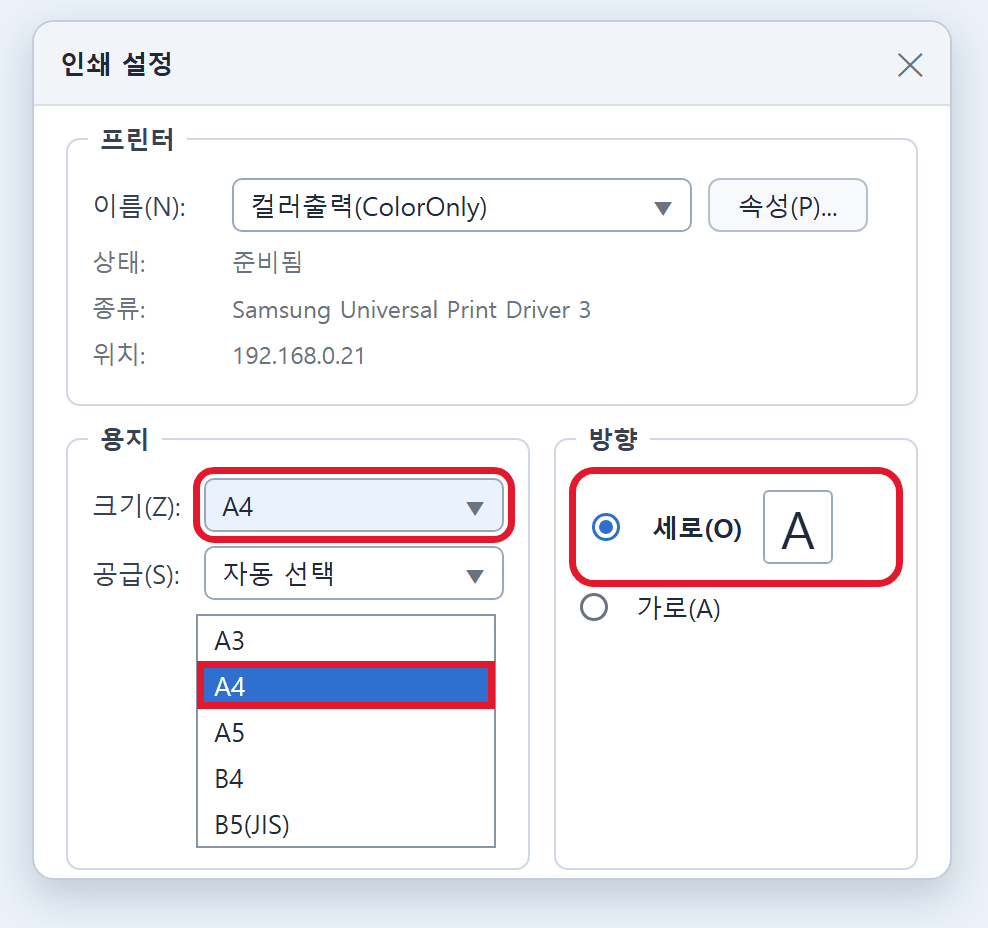
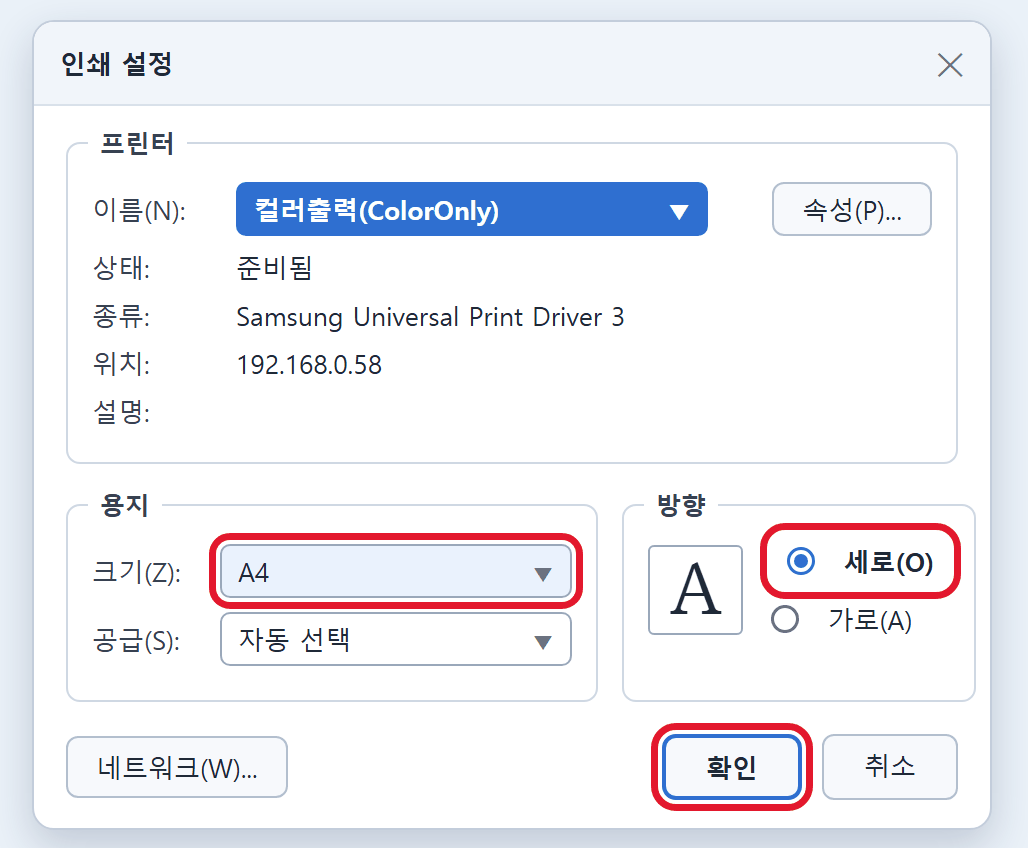
fix: 알씨 인쇄 순서를 실제 흐름으로(프린터 선택 → 인쇄 창 → [프린터 설정] → 인쇄 설정 창[확인] → 다시 인쇄 창), 인쇄 설정 창을 새 버전(확인·취소 버튼)으로

diff --git a/guide-print.html b/guide-print.html
@@ -811,36 +811,42 @@ footer{background:#111827;color:rgba(255,255,255,.55);padding:60px 6%}
       </div>
       <div class="step">
         <div class="step-no">3</div>
-        <div class="step-fig"><img class="step-photo" src="images/print/alsee-3-setup.png?v=1" alt="용지 크기 · 방향" loading="lazy"></div>
-        <div class="step-h">용지 크기 · 방향</div>
-        <p class="step-p">왼쪽 아래 <b>[프린터 설정]</b>을 눌러 <b>용지 크기(A4 · A3 등)</b>와 <b>세로 / 가로</b>를 정합니다.</p>
+        <div class="step-fig"><img class="step-photo" src="images/print/alsee-3-printer-setting.png?v=1" alt="프린터를 고르면 나오는 인쇄 창. 왼쪽 아래 프린터 설정 글자에 표시" loading="lazy"></div>
+        <div class="step-h">인쇄 창에서 [프린터 설정] 누르기</div>
+        <p class="step-p">프린터를 고르면 아래 <b>인쇄 창</b>이 나와요. 용지 크기나 세로 / 가로를 바꾸려면 왼쪽 아래 <b>[프린터 설정]</b>을 누르세요.</p>
       </div>
       <div class="step">
         <div class="step-no">4</div>
-        <div class="step-fig"><img class="step-photo" src="images/print/alsee-4-size.png?v=1" alt="크기 설정" loading="lazy"></div>
-        <div class="step-h">크기 설정</div>
-        <p class="step-p"><b>[크기설정]</b> 탭에서 <b>용지 크기에 맞춤</b>을 체크하면 사진이 용지에 꽉 차게 인쇄됩니다. 비율을 지키려면 <b>용지 비율에 맞춤</b>을 선택하세요.</p>
+        <div class="step-fig"><img class="step-photo" src="images/print/alsee-3-setup.png?v=2" alt="인쇄 설정 창. 용지 크기 A4와 방향 세로, 확인 버튼에 표시" loading="lazy"></div>
+        <div class="step-h">용지 크기 · 방향 정하고 [확인]</div>
+        <p class="step-p"><b>용지 크기(A4 · A3 등)</b>와 <b>세로 / 가로</b>를 정한 뒤 <b>[확인]</b>을 누르세요. 그러면 다시 인쇄 창으로 돌아와요.</p><div class="step-note">💡 위쪽 <b>이름</b> 칸에는 앞에서 고른 프린터(<b>컬러출력</b> 또는 <b>흑백출력</b>)가 나와요. 바꾸지 마세요.</div>
       </div>
       <div class="step">
         <div class="step-no">5</div>
+        <div class="step-fig"><img class="step-photo" src="images/print/alsee-4-size.png?v=1" alt="크기 설정" loading="lazy"></div>
+        <div class="step-h">크기 설정</div>
+        <p class="step-p">다시 인쇄 창이에요. <b>[크기설정]</b> 탭에서 <b>용지 크기에 맞춤</b>을 체크하면 사진이 용지에 꽉 차게 인쇄됩니다. 비율을 지키려면 <b>용지 비율에 맞춤</b>을 선택하세요.</p>
+      </div>
+      <div class="step">
+        <div class="step-no">6</div>
         <div class="step-fig"><img class="step-photo" src="images/print/alsee-5-margin.png?v=1" alt="여백 · 위치" loading="lazy"></div>
         <div class="step-h">여백 · 위치</div>
         <p class="step-p"><b>[여백/위치]</b> 탭에서 위 · 아래 · 좌 · 우 여백(mm)과 사진을 놓을 위치를 정합니다.</p>
       </div>
       <div class="step">
-        <div class="step-no">6</div>
+        <div class="step-no">7</div>
         <div class="step-fig"><img class="step-photo" src="images/print/alsee-6-etc.png?v=1" alt="장 수 정하고 인쇄" loading="lazy"></div>
         <div class="step-h">장 수 정하고 인쇄</div>
         <p class="step-p"><b>[기타]</b> 탭에서 <b>인쇄할 장 수</b>를 정하세요. 왼쪽 <b>미리보기로 전체를 확인한 뒤</b> <b>[인쇄]</b>를 누르세요.</p>
       </div>
       <div class="step">
-        <div class="step-no">7</div>
+        <div class="step-no">8</div>
         <div class="step-figs"><figure class="est-fig"><img class="step-photo" src="images/print/pin-dialog.png?v=1" alt="개인 식별 번호 입력창에 숫자 4자리를 입력하는 모습" loading="lazy" style="max-width:420px"></figure></div>
           <div class="step-h">[인쇄] 누르고 번호 입력</div>
           <p class="step-p"><b>[인쇄]</b>를 누르면 <b>개인식별번호</b> 입력창이 나와요. <b>아무 숫자 4자리</b>를 넣으세요. <b>내 핸드폰 번호 뒤 4자리</b>를 추천해요.</p><div class="step-note">이 번호(PIN번호)는 복합기에서 내 문서를 찾을 때 쓰는 임시 비밀번호 같은 거예요. 꼭 기억하세요!</div>
       </div>
       <div class="step">
-        <div class="step-no">8</div>
+        <div class="step-no">9</div>
         <div class="step-figs"><figure class="est-fig"><img class="step-photo" src="images/print/queue-wait.png?v=1" alt="인쇄 작업 창에 문서 목록이 남아 있는 모습" loading="lazy"><figcaption class="est-cap">목록이 남아 있어요 → 없어질 때까지 기다리기</figcaption></figure><figure class="est-fig"><img class="step-photo" src="images/print/queue-empty.png?v=1" alt="인쇄 작업 창에 문서 목록이 없는 모습" loading="lazy"><figcaption class="est-cap">목록이 없어요 → 복합기로 전송 완료</figcaption></figure></div>
           <div class="step-h">인쇄 작업 창 확인</div>
           <p class="step-p"><b>흑백출력</b> 또는 <b>컬러출력</b> 인쇄 작업 창을 보세요.<br>목록이 <b>하나도 없으면</b> 인쇄 작업이 복합기로 전송된 상태예요.<br>목록이 남아 있으면 <b>없어질 때까지 기다려</b> 주세요.</p>
